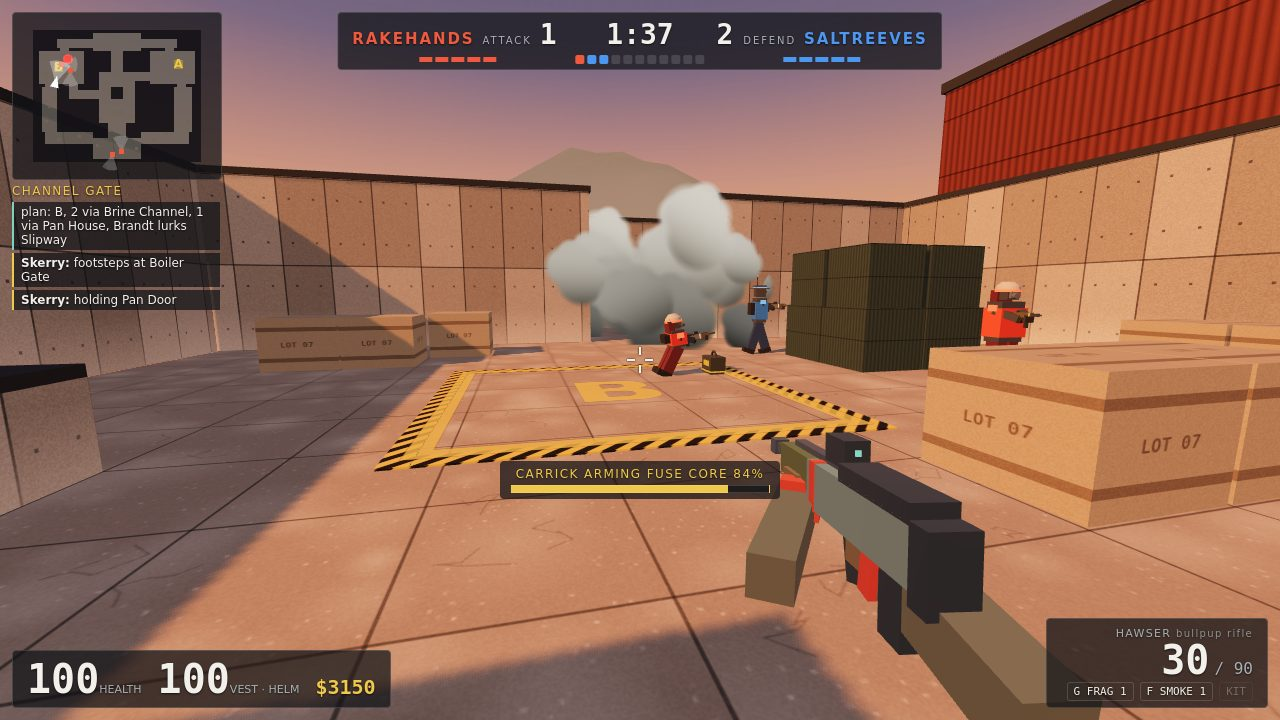
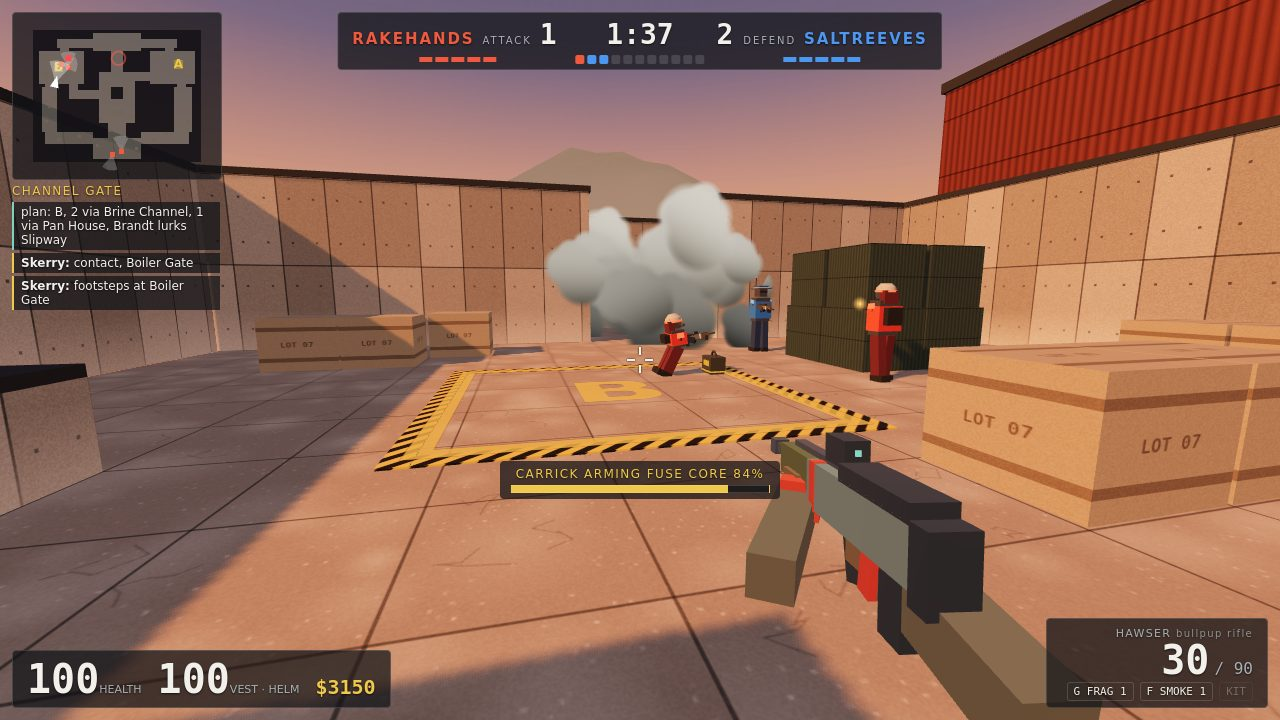
Shot 3: Skerry in clear view against the stack, calling the contact the game would call
Skerry moves to (11,12): whole against the green stack, facing the Saltreeve at the smoke's
edge, his muzzle flash in frame; radio 'contact, Boiler Gate' (bots.js wording). A Saltreeve with
a clear line past the cloud picks the arming Carrick and ends the arm (tried two spots), so he
stays at the edge without a shot. tools/ only. Fresh screenshots.

diff --git a/tools/stage.js b/tools/stage.js
@@ -33,11 +33,12 @@ const SCENES = {
     cast: [['p', 25, 1, 27, 8], ['m0', 25, 5, 24, 12, 'skiff'], ['m1', 29, 5, 28, 9, 'bollard'], ['m2', 27, 7, 27, 12, 'hawser']],
     script(i, s) { s.aim(null, 0.05, 27.5, 8); } },
   // Arming on B: a teammate arms the Fuse Core on the pad while the player covers from behind; the smoke
-  // closes Boiler Gate 12 m out, a Saltreeve works round its edge, a teammate holds Pan Door.
+  // closes Boiler Gate 12 m out, a Saltreeve works round its edge, Skerry has him spotted.
   3: { side: 0, round: 4, clock: 97, core: 'm0', hide: ['hint'], ticks: 40, smoke: [10.5, 6.6],
-    cast: [['p', 7, 17, 9, 8, 'hawser'], ['m0', 9, 11, 12, 11, 'hawser'], ['m1', 12, 13, 13, 19, 'skiff'], ['f0', 12, 8, 8, 13, 'hawser']],
-    radio: [['m1', 'holding Pan Door'], ['m1', 'footsteps at Boiler Gate']],
-    fire: [['f0', 4]], // he has the player in his sights but will not fire inside the scene
+    cast: [['p', 7, 17, 9, 8, 'hawser'], ['m0', 9, 11, 12, 11, 'hawser'], ['m1', 11, 12, 12, 8, 'skiff'], ['f0', 12, 8, 8, 13, 'hawser']],
+    radio: [['m1', 'footsteps at Boiler Gate'], ['m1', 'contact, Boiler Gate']],
+    fire: [['f0', 4]], // the smoke's edge hides him: no clear shot either way inside the scene (any clear line
+    // past the cloud picks the arming Carrick, the nearest target, and ends the arm)
     script(i, s) { s.aim(null, -0.14, 9, 9); } },
   // A retake of A won by a teammate's disarm with the kit, 2.7 m ahead, looking south down the lane past the
   // pad over two downed Saltreeves: the window turns teal, the banner names the disarm; the match goes on.
